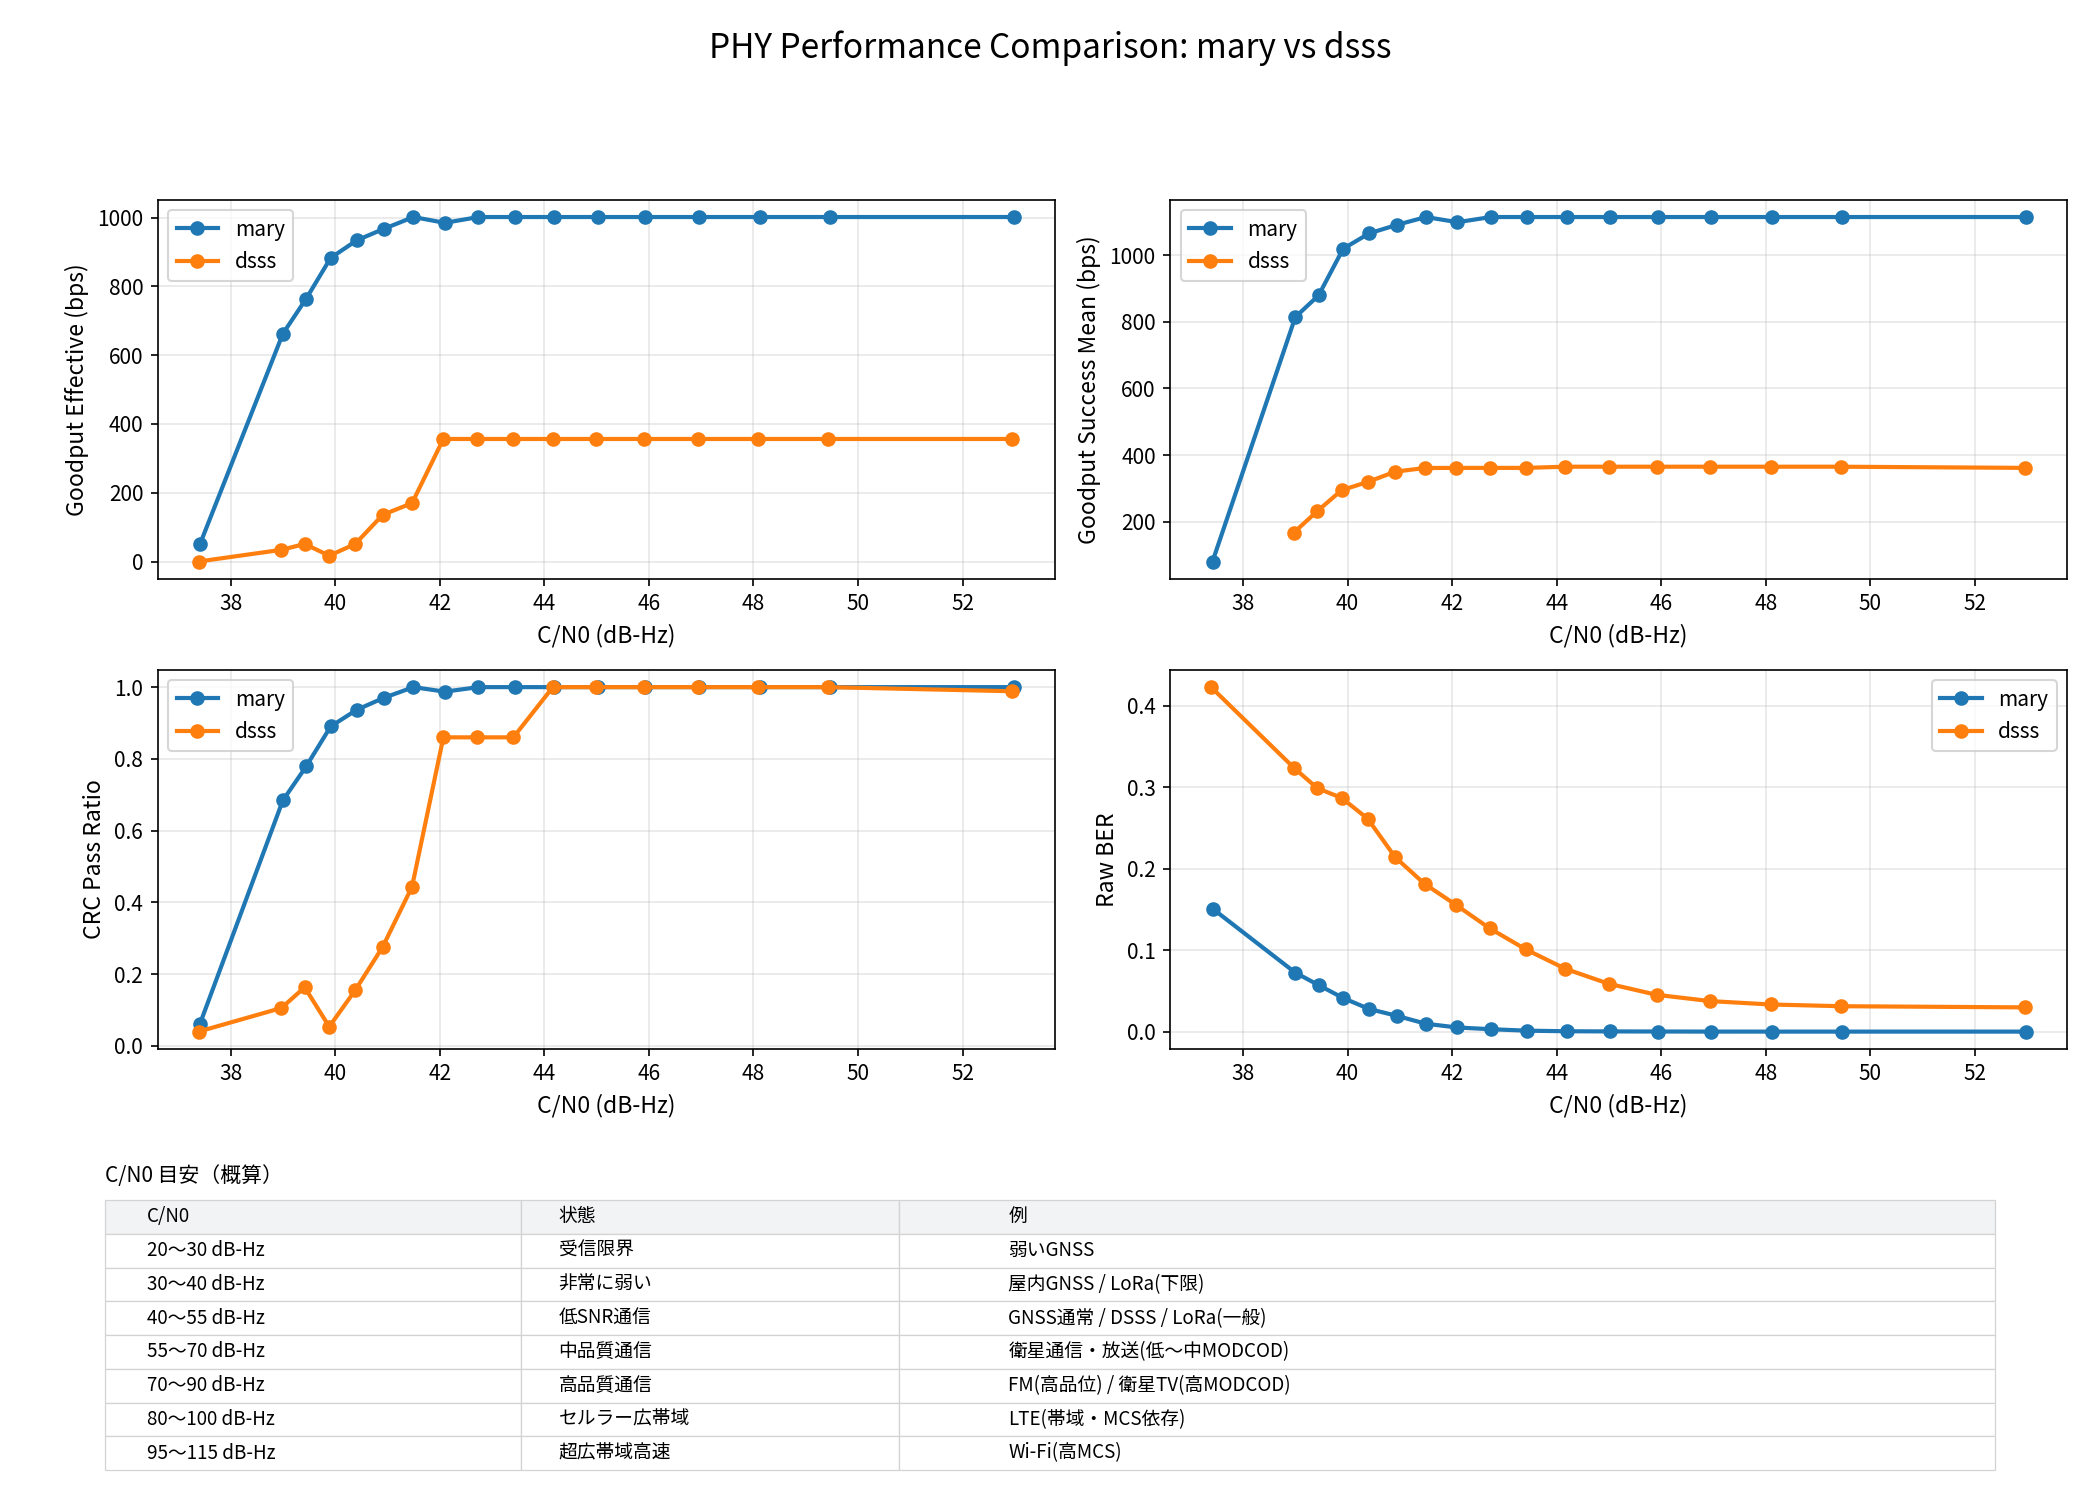
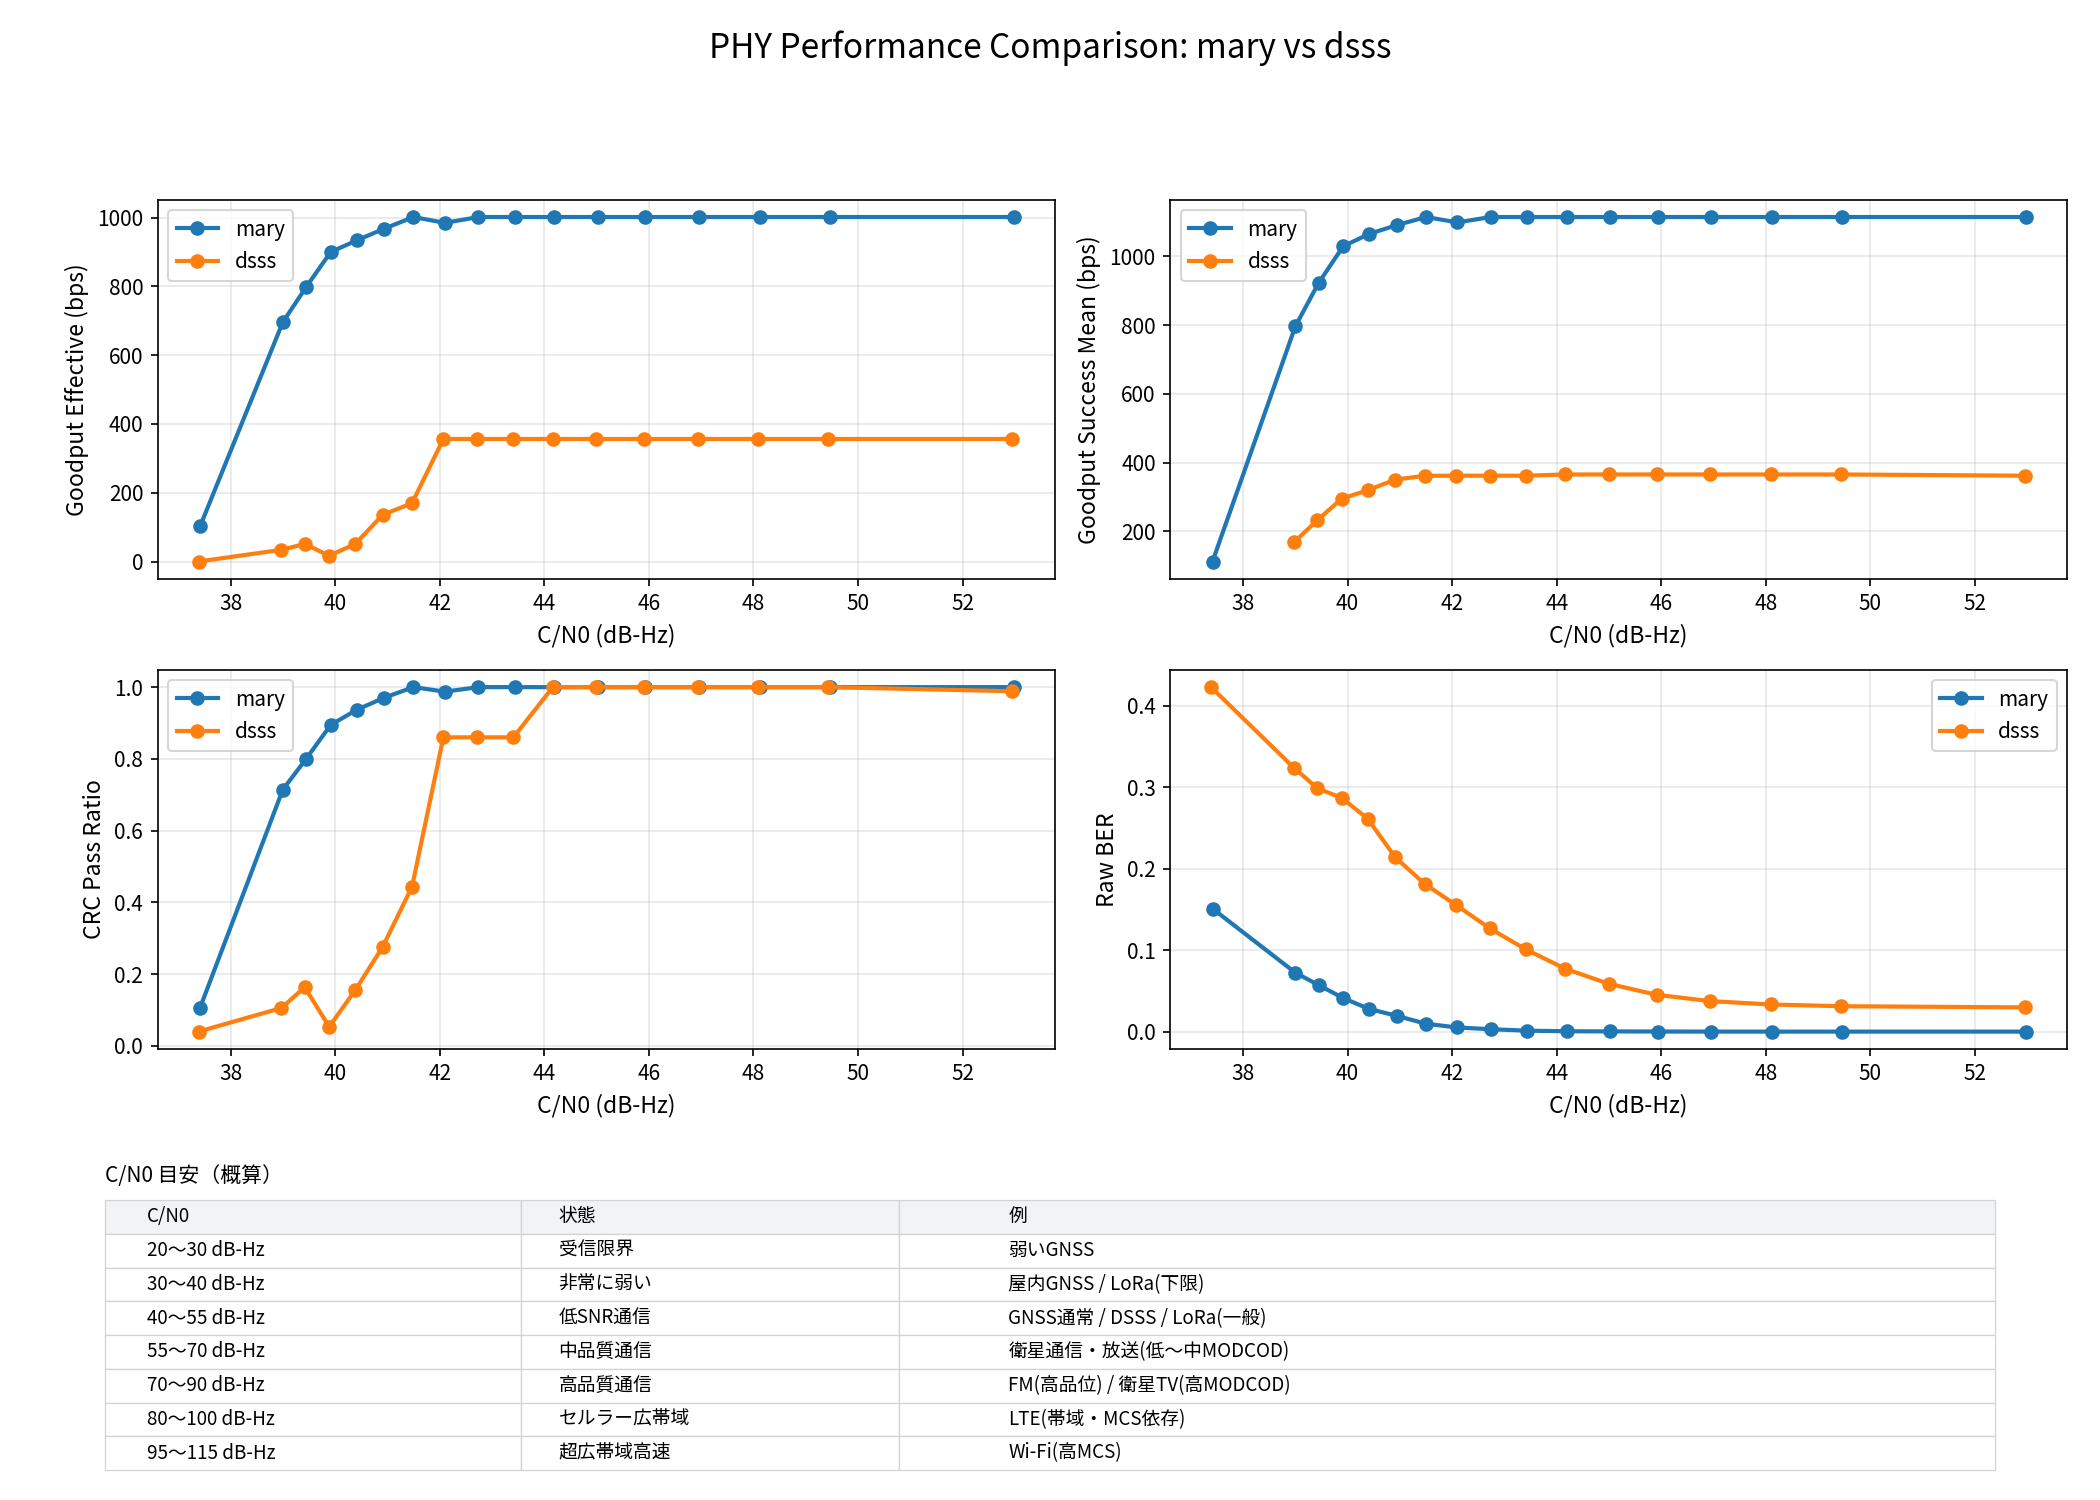
Set Mary default list Viterbi size to 32

diff --git a/dsp/src/mary/decoder/mod.rs b/dsp/src/mary/decoder/mod.rs
@@ -34,7 +34,7 @@ use crate::DspConfig;
 use num_complex::Complex32;
 
 const TRACKING_EARLY_LATE_DELTA_CHIP: f32 = 0.5;
-pub const VITERBI_LIST_SIZE_DEFAULT: usize = 1;
+pub const VITERBI_LIST_SIZE_DEFAULT: usize = 32;
 pub const LLR_ERASURE_SECOND_PASS_DEFAULT: bool = true;
 pub const LLR_ERASURE_QUANTILE_DEFAULT: f32 = 0.10;
 pub const LLR_ERASURE_LIST_SIZE_DEFAULT: usize = 8;
